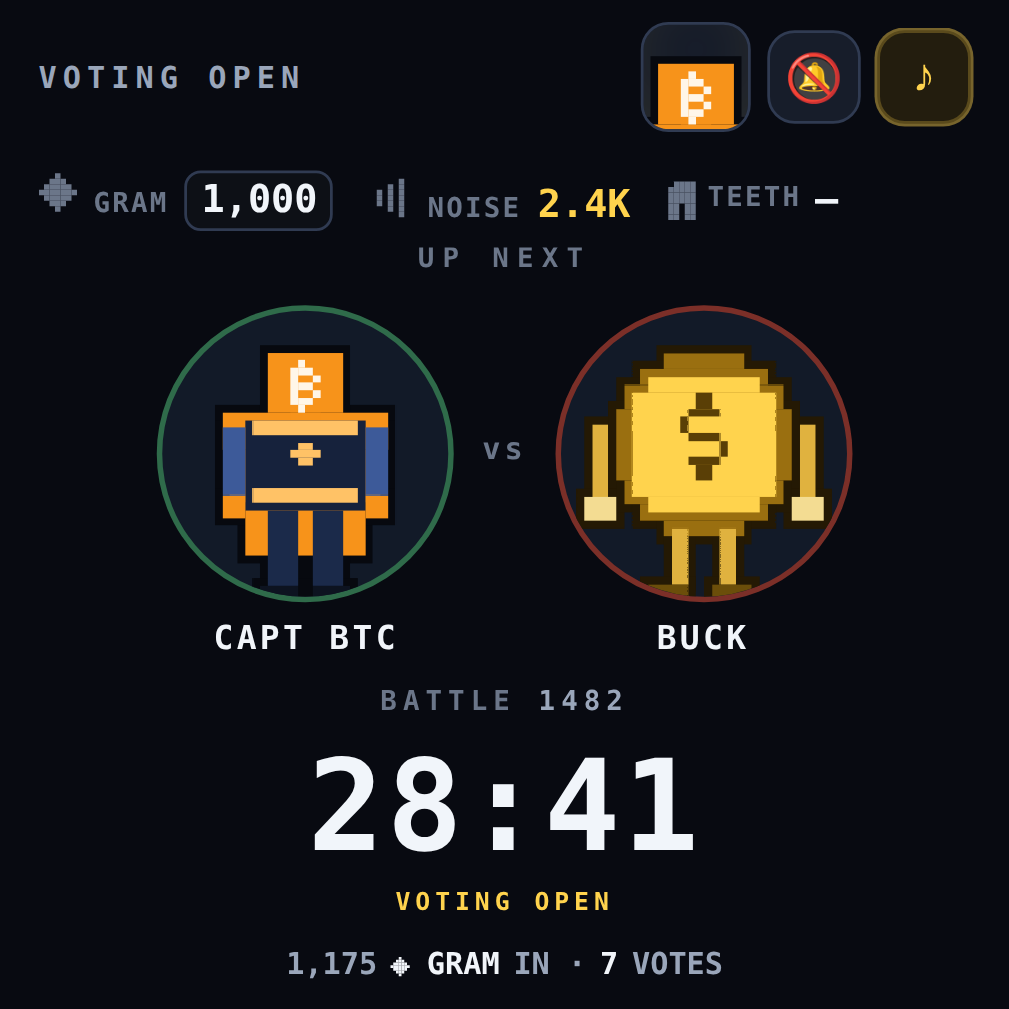
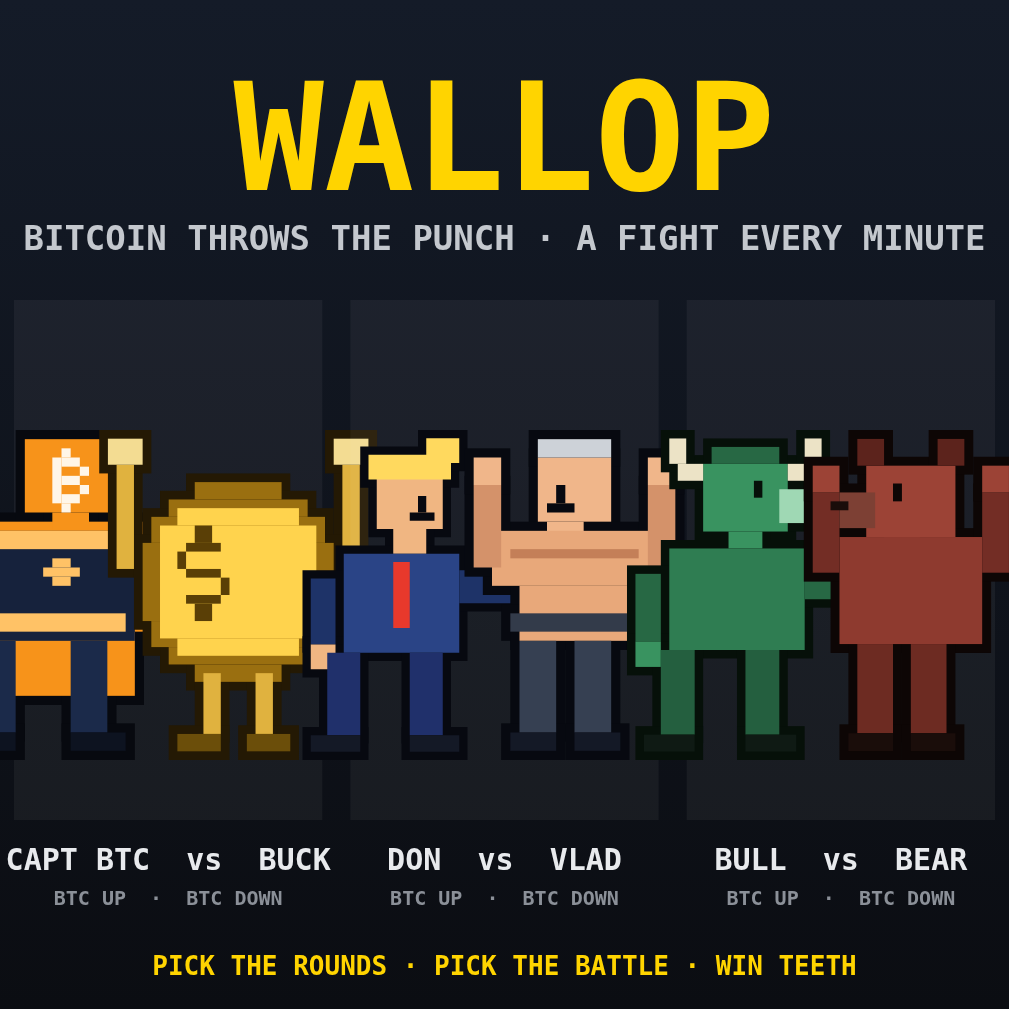
Home: sign-in in the bar, play-for-free interstitial, CTAs above posters, GitHub fork button; Wallop poster with all three themes

diff --git a/public/index.html b/public/index.html
@@ -7,28 +7,39 @@
 <link rel="icon" href="/favicon.ico"><link rel="stylesheet" href="/arcade.css">
 <script src="/vg.js"></script>
 </head><body>
-<script src="/vrg-chrome.js" data-app="Arcade" data-public="1"></script>
+<div id="barActions" hidden><a id="acctBtn" class="btn" href="/leaderboard">SIGN IN</a></div>
+<script src="/vrg-chrome.js" data-app="Arcade" data-public="1" data-actions="#barActions"></script>
+<div id="scrim" hidden></div>
+<section id="guest" class="sheet" hidden>
+  <button class="x" data-close>×</button>
+  <p class="kicker">PLAY <span id="gName">THE GAME</span> FOR FREE</p>
+  <h2>You can play right now as a guest.</h2>
+  <p>Sign in and your score is kept between visits and counted on the <a href="/leaderboard">leaderboard</a>. Guests start fresh every time.</p>
+  <div class="providers" id="providers"></div>
+  <a class="ghost" id="guestGo" href="#">Play as a guest</a>
+</section>
 <main class="wrap">
   <section class="hero">
     <div>
       <p class="kicker">VRG · PLAYED AND RUN</p>
       <h1>Small games.<br>Played in the browser.</h1>
-      <p class="lead">No account, no download. Pick a game, or host a table and send a friend the link.</p>
+      <p class="lead">Nothing to install, no account needed. Pick a game, or host a table and send a friend the link.</p>
     </div>
     <img id="vrgLogo" src="/logo-3d.webp" alt="VRG" title="tickle me">
   </section>
   <section class="games">
     <div class="game">
+      <div class="t top"><div class="n">01 · CARD GAME · 4 SEATS</div><a class="title" href="/play/tariff-wars/"><b>Tariff Wars</b></a><span>Open your deals, the highest tariff wins. Play against the AI or host a table for friends.</span><div class="row"><a class="go play" href="/play/tariff-wars/" data-game="Tariff Wars">PLAY FOR FREE</a><a class="fork" href="https://github.com/vrgli/arcade/fork" data-game="tariff-wars"><svg viewBox="0 0 16 16" width="14" height="14" aria-hidden="true"><path fill="currentColor" d="M8 0C3.58 0 0 3.58 0 8c0 3.54 2.29 6.53 5.47 7.59.4.07.55-.17.55-.38 0-.19-.01-.82-.01-1.49-2.01.37-2.53-.49-2.69-.94-.09-.23-.48-.94-.82-1.13-.28-.15-.68-.52-.01-.53.63-.01 1.08.58 1.23.82.72 1.21 1.87.87 2.33.66.07-.52.28-.87.51-1.07-1.78-.2-3.64-.89-3.64-3.95 0-.87.31-1.59.82-2.15-.08-.2-.36-1.02.08-2.12 0 0 .67-.21 2.2.82.64-.18 1.32-.27 2-.27.68 0 1.36.09 2 .27 1.53-1.04 2.2-.82 2.2-.82.44 1.1.16 1.92.08 2.12.51.56.82 1.27.82 2.15 0 3.07-1.87 3.75-3.65 3.95.29.25.54.73.54 1.48 0 1.07-.01 1.93-.01 2.2 0 .21.15.46.55.38A8.013 8.013 0 0016 8c0-4.42-3.58-8-8-8z"/></svg> FORK ME</a></div></div>
       <a class="cover" href="/play/tariff-wars/"><img src="/play/tariff-wars/poster.png" alt="Tariff Wars"></a>
-      <div class="t"><div class="n">01 · CARD GAME · 4 SEATS</div><a class="title" href="/play/tariff-wars/"><b>Tariff Wars</b></a><span>Open your deals, the highest tariff wins. Play against the AI or host a table for friends.</span><div class="row"><a class="go" href="/play/tariff-wars/">PLAY</a><a class="fork" href="https://github.com/vrgli/arcade/fork" data-game="tariff-wars">FORK ME</a></div></div>
     </div>
     <div class="game">
+      <div class="t top"><div class="n">02 · FIGHT GAME · EVERY MINUTE</div><a class="title" href="/play/wallop/"><b>Wallop</b></a><span>Bitcoin throws the punch. A sixty-second fight every minute: pick the rounds, pick the battle, win teeth.</span><div class="row"><a class="go play" href="/play/wallop/" data-game="Wallop">PLAY FOR FREE</a><a class="fork" href="https://github.com/vrgli/arcade/fork" data-game="wallop"><svg viewBox="0 0 16 16" width="14" height="14" aria-hidden="true"><path fill="currentColor" d="M8 0C3.58 0 0 3.58 0 8c0 3.54 2.29 6.53 5.47 7.59.4.07.55-.17.55-.38 0-.19-.01-.82-.01-1.49-2.01.37-2.53-.49-2.69-.94-.09-.23-.48-.94-.82-1.13-.28-.15-.68-.52-.01-.53.63-.01 1.08.58 1.23.82.72 1.21 1.87.87 2.33.66.07-.52.28-.87.51-1.07-1.78-.2-3.64-.89-3.64-3.95 0-.87.31-1.59.82-2.15-.08-.2-.36-1.02.08-2.12 0 0 .67-.21 2.2.82.64-.18 1.32-.27 2-.27.68 0 1.36.09 2 .27 1.53-1.04 2.2-.82 2.2-.82.44 1.1.16 1.92.08 2.12.51.56.82 1.27.82 2.15 0 3.07-1.87 3.75-3.65 3.95.29.25.54.73.54 1.48 0 1.07-.01 1.93-.01 2.2 0 .21.15.46.55.38A8.013 8.013 0 0016 8c0-4.42-3.58-8-8-8z"/></svg> FORK ME</a></div></div>
       <a class="cover" href="/play/wallop/"><img src="/play/wallop/poster.png" alt="Wallop"></a>
-      <div class="t"><div class="n">02 · FIGHT GAME · EVERY MINUTE</div><a class="title" href="/play/wallop/"><b>Wallop</b></a><span>Bitcoin throws the punch. A sixty-second fight every minute: pick the rounds, pick the battle, win teeth.</span><div class="row"><a class="go" href="/play/wallop/">PLAY</a><a class="fork" href="https://github.com/vrgli/arcade/fork" data-game="wallop">FORK ME</a></div></div>
     </div>
   </section>
   <footer><a href="https://vrg.li">VRG.LI</a><a href="https://github.com/vrgli/arcade">GITHUB</a><a href="/source/">SOURCE · FREE TO FORK</a><a href="/leaderboard">LEADERBOARD</a><a href="/stats">STATS</a><a href="/privacy">PRIVACY</a><span>PLAY AS A GUEST · SIGN IN TO KEEP YOUR SCORE</span></footer>
 </main>
 <script src="/tickle.js"></script>
 <script src="/fork.js"></script>
+<script src="/home.js"></script>
 </body></html>

diff --git a/public/home.js b/public/home.js
@@ -1,0 +1,31 @@
+// Home: sign-in control in the brand bar, and the "play for free" interstitial.
+(function () {
+  var PROV = [['google','Google'],['github','GitHub'],['discord','Discord'],['apple','Apple']];
+  var providers = {}, account = null, target = '/';
+  var $ = function (s) { return document.querySelector(s); };
+  function openSheet() { $('#scrim').hidden = false; $('#guest').hidden = false; }
+  function closeSheet() { $('#scrim').hidden = true; $('#guest').hidden = true; }
+  document.querySelectorAll('[data-close]').forEach(function (b) { b.onclick = closeSheet; }); $('#scrim').onclick = closeSheet;
+  function paintProviders(next) {
+    $('#providers').innerHTML = PROV.map(function (p) { return providers[p[0]]
+      ? '<a href="/auth/' + p[0] + '?next=' + encodeURIComponent(next) + '">' + p[1] + '</a>'
+      : '<span title="not switched on yet">' + p[1] + ' · soon</span>'; }).join('');
+  }
+  fetch('/api/me', { credentials: 'same-origin' }).then(function (r) { return r.json(); }).then(function (d) {
+    providers = d.providers || {}; account = d.account || null;
+    var a = $('#acctBtn');
+    if (account) { a.innerHTML = (account.avatar ? '<img src="' + account.avatar + '" alt="">' : '') + String(account.name || 'YOU').toUpperCase(); a.href = '/leaderboard'; a.title = 'Leaderboard'; }
+    else { a.textContent = 'SIGN IN'; a.classList.add('acct'); a.href = '#'; a.onclick = function (e) { e.preventDefault(); target = '/'; $('#gName').textContent = 'THE ARCADE'; $('#guestGo').textContent = 'Not now'; $('#guestGo').href = '#'; $('#guestGo').onclick = function (ev) { ev.preventDefault(); closeSheet(); }; paintProviders('/'); openSheet(); }; }
+    $('#barActions').hidden = false;
+  }).catch(function () { $('#barActions').hidden = false; });
+  document.querySelectorAll('a.play').forEach(function (a) {
+    a.addEventListener('click', function (e) {
+      if (account) return;                       // signed in: straight into the game
+      e.preventDefault(); target = a.getAttribute('href');
+      $('#gName').textContent = (a.dataset.game || 'THE GAME').toUpperCase();
+      $('#guestGo').textContent = 'Play as a guest'; $('#guestGo').href = target; $('#guestGo').onclick = null;
+      paintProviders(target); openSheet();
+      if (window.vgTrack) window.vgTrack('play_click', { game: a.dataset.game });
+    });
+  });
+})();

diff --git a/public/arcade.css b/public/arcade.css
@@ -30,4 +30,14 @@ section{margin:34px 0}h2{font-size:20px;margin:0 0 10px;letter-spacing:-.01em}
 .hero img.jerk{animation:jerk .65s cubic-bezier(.3,1.4,.5,1)}
 .game .fork,.fork{display:inline-block;margin:0;border:1px solid var(--yl);color:var(--yl);font:700 12px/1 var(--mono);letter-spacing:.12em;padding:9px 13px;border-radius:9px;text-decoration:none;cursor:pointer}
 a.game .fork:hover,.fork:hover{background:var(--yl);color:#111}
-.game .cover{display:block}.game .title{text-decoration:none}.game .row{display:flex;gap:10px;align-items:center;margin-top:14px}
+.game .cover{display:block}.game .title{text-decoration:none}.game .row{display:flex;gap:10px;align-items:center;margin-top:14px;justify-content:space-between}.game .fork{margin-left:auto;display:inline-flex;align-items:center;gap:7px}.game .t.top{border-bottom:1px solid var(--line)}.game .cover img{border-bottom:0}
+
+#scrim{position:fixed;inset:0;background:rgba(0,0,0,.66);z-index:40}
+.sheet{position:fixed;left:50%;top:50%;transform:translate(-50%,-50%);width:min(440px,calc(100vw - 28px));z-index:41;background:#111419;border:1px solid var(--line);border-radius:16px;padding:22px 22px 18px;box-shadow:0 20px 60px rgba(0,0,0,.7)}
+.sheet h2{margin:8px 0 10px;font:800 22px/1.15 var(--sans);letter-spacing:-.01em}.sheet p{color:#c4c8ce;font-size:14px}.sheet p a{color:var(--yl)}
+.sheet .x{position:absolute;right:10px;top:8px;font-size:22px;color:var(--mute);padding:4px 8px;background:none;border:0;cursor:pointer}
+.sheet .ghost{display:block;text-align:center;margin-top:10px;width:100%;padding:11px;border:1px solid var(--line);border-radius:10px;font:700 12px/1 var(--mono);letter-spacing:.12em;color:var(--mute);text-decoration:none;background:none;cursor:pointer}
+.providers{display:grid;grid-template-columns:1fr 1fr;gap:8px;margin-top:6px}
+.providers a,.providers span{display:flex;align-items:center;justify-content:center;gap:8px;padding:11px;border-radius:10px;font:700 12px/1 var(--mono);letter-spacing:.1em;text-decoration:none;border:1px solid var(--yl);color:#111;background:var(--yl)}
+.providers span{background:transparent;color:var(--mute);border-color:var(--line)}
+.vrg-act .btn.acct{border-color:var(--yl);color:var(--yl)}.vrg-act .btn img{width:18px;height:18px;border-radius:50%}
